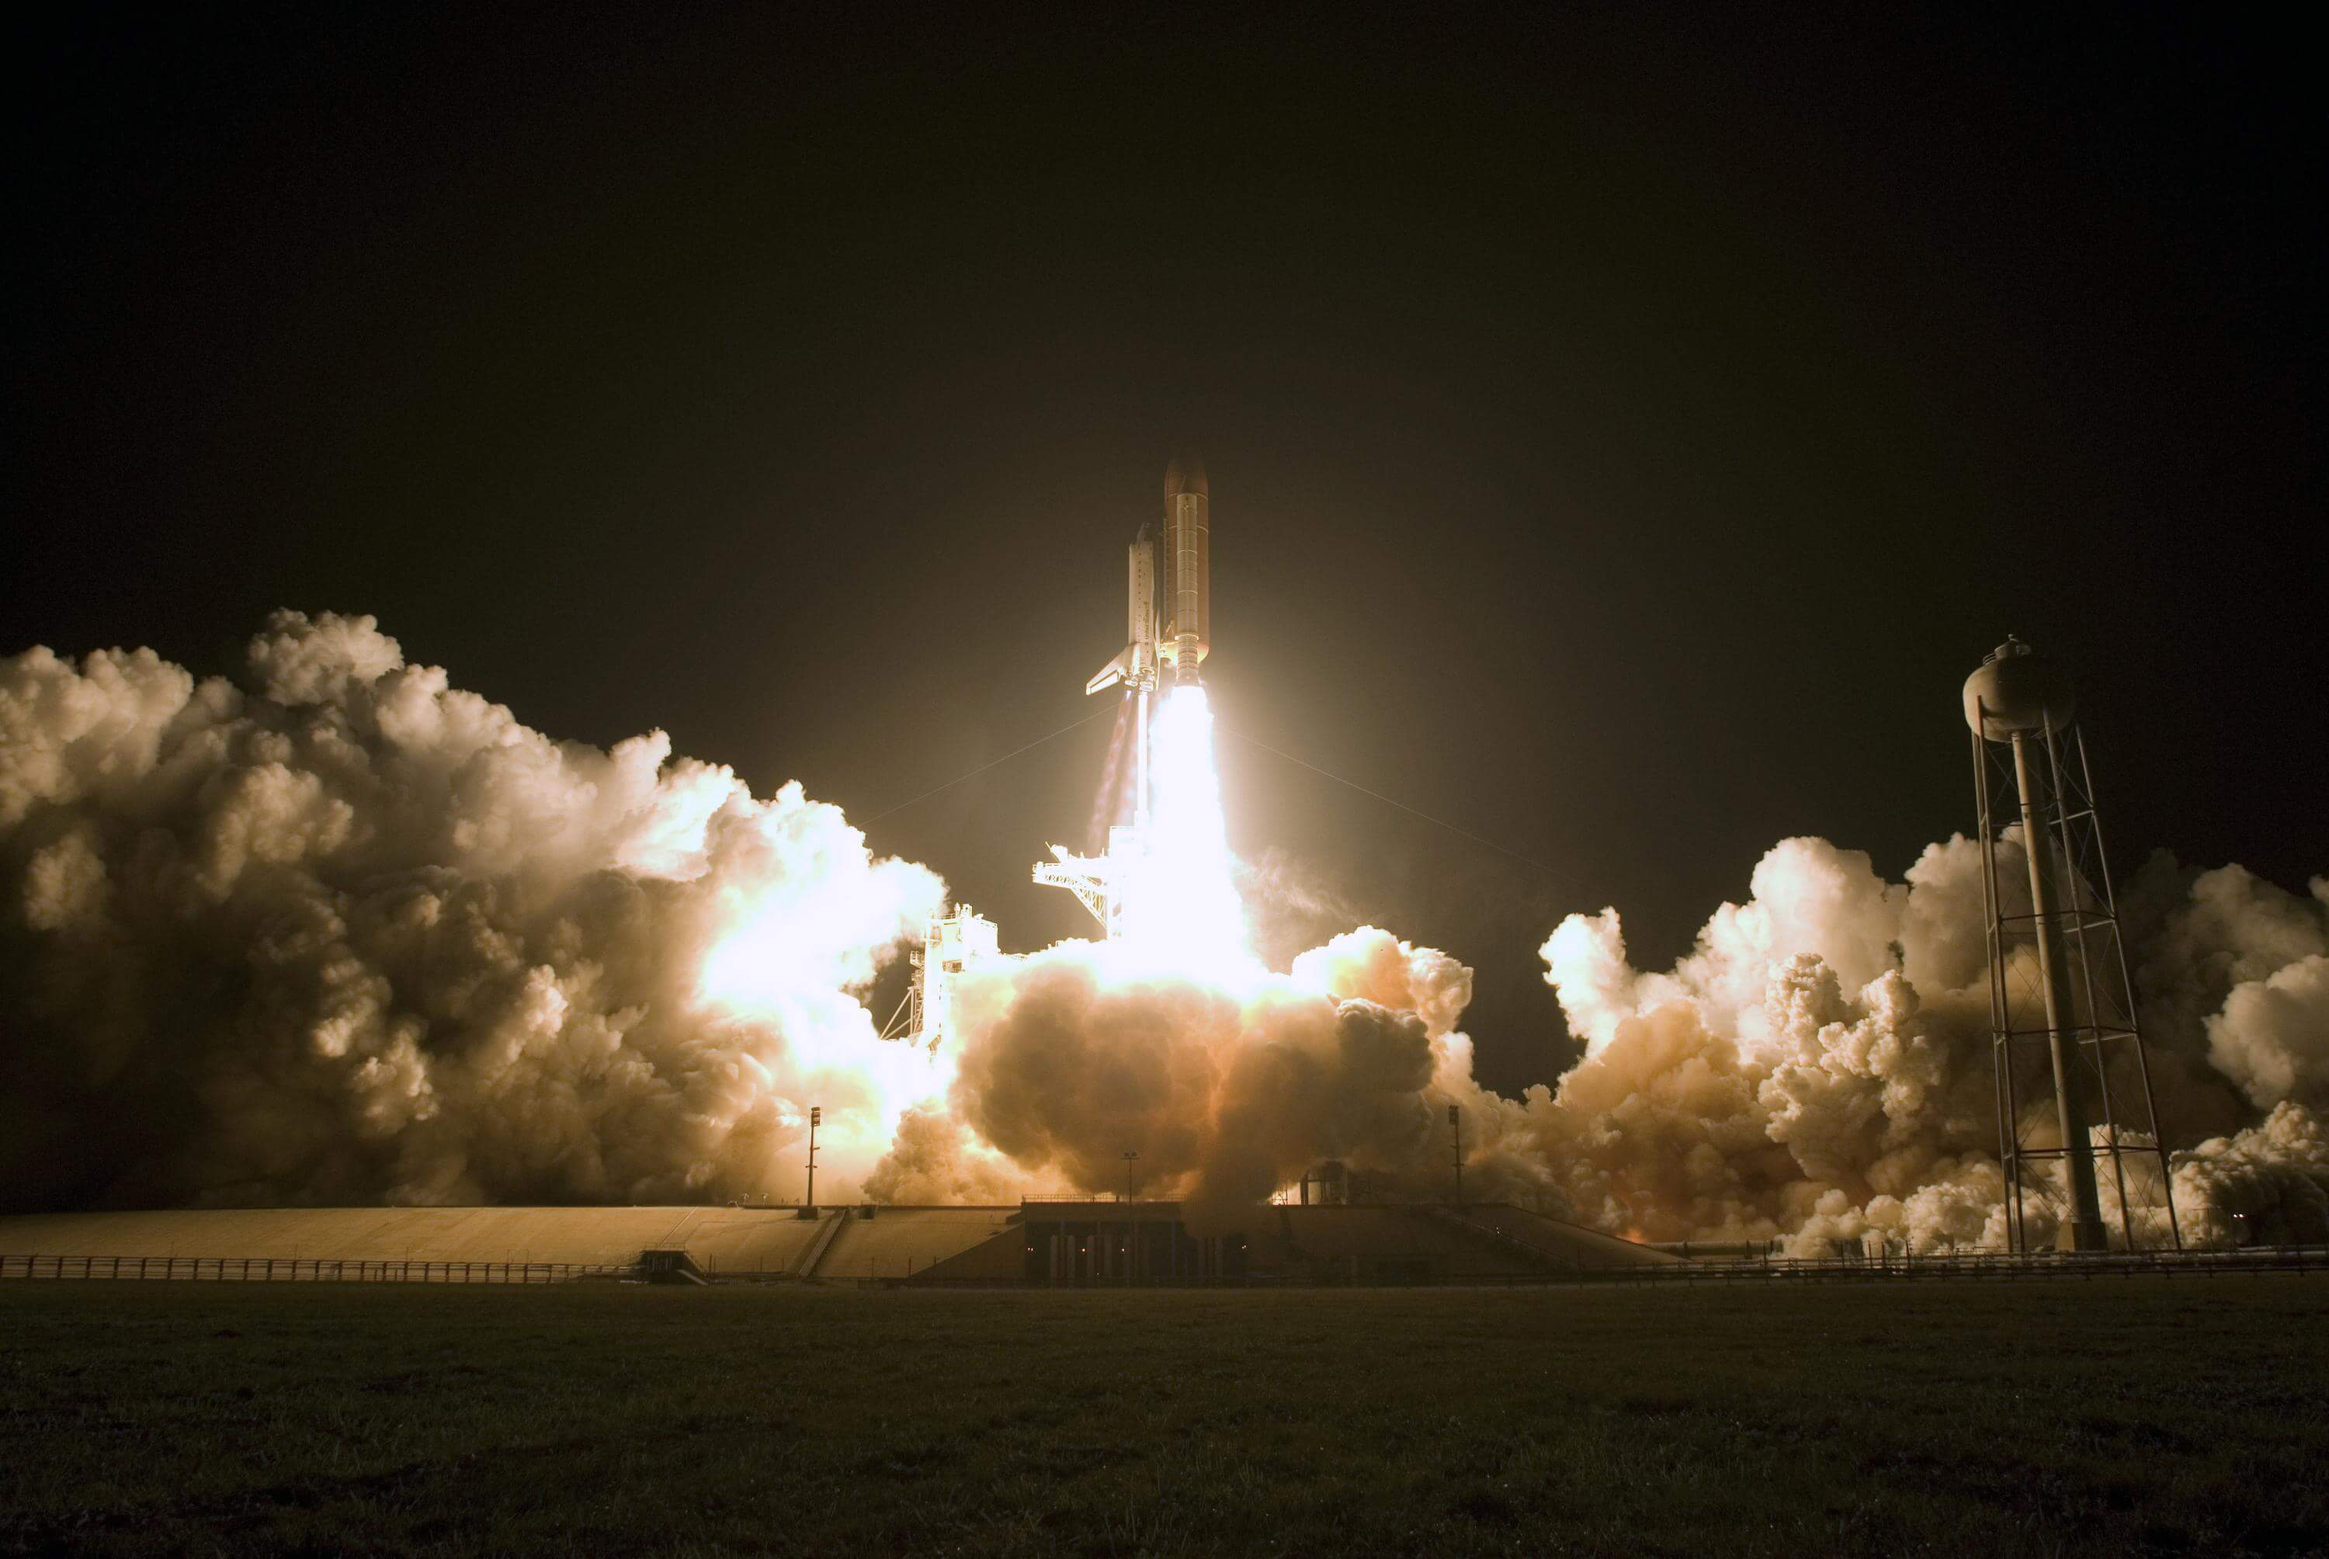
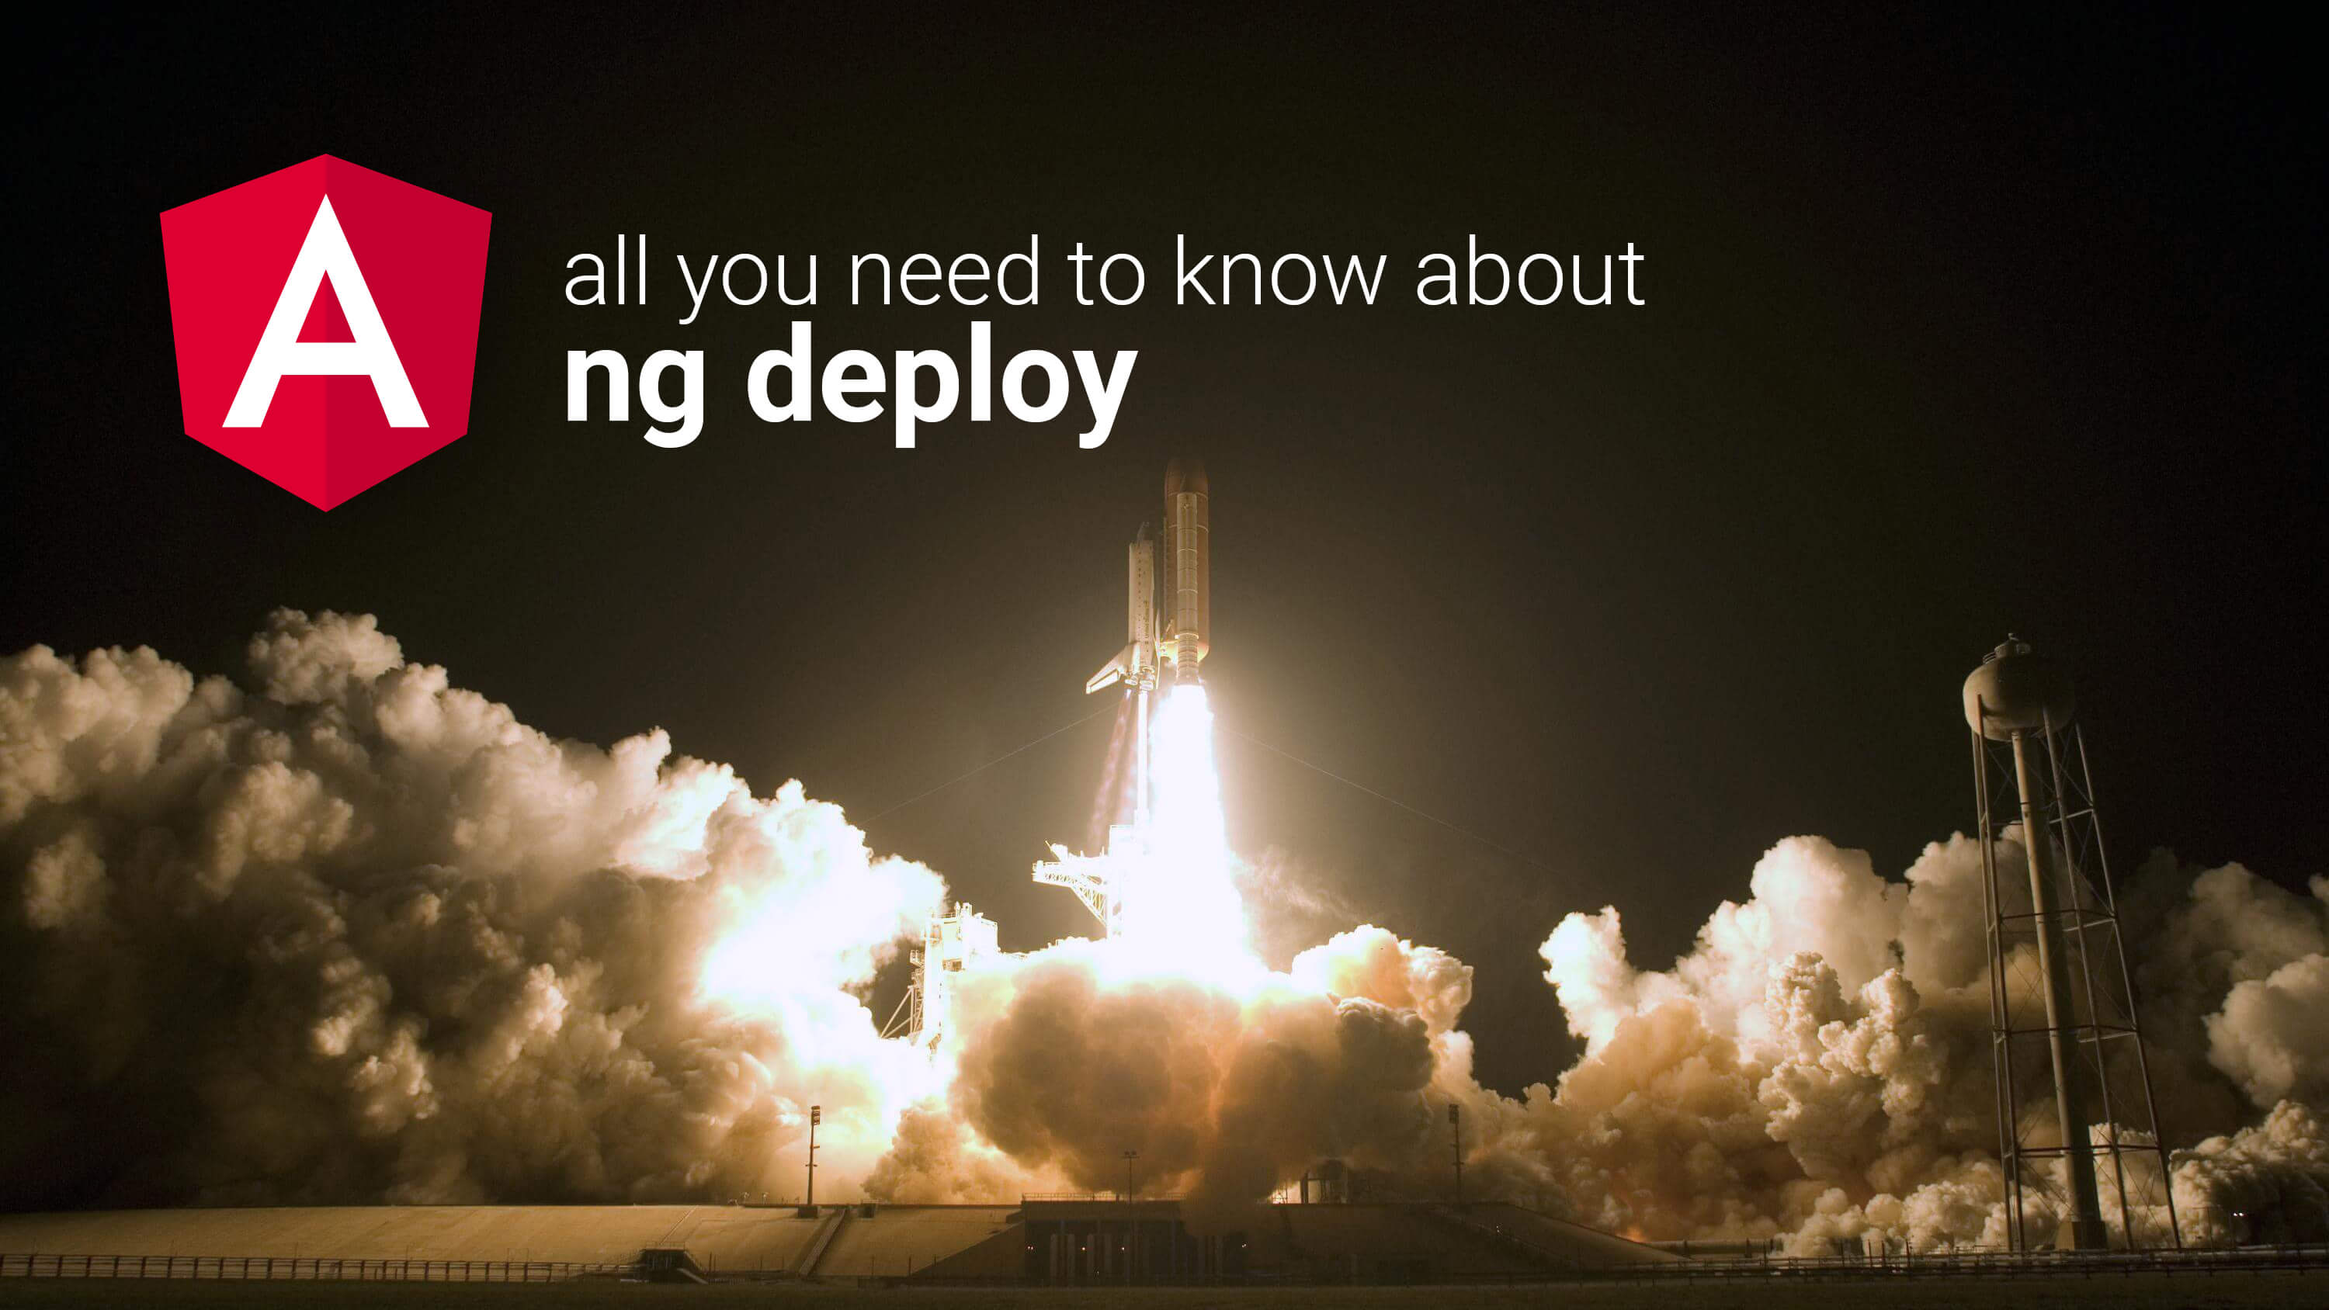
ng deploy: space shuttle with text + TOC

diff --git a/blog/2019-08-ng-deploy/README.md b/blog/2019-08-ng-deploy/README.md
@@ -18,12 +18,16 @@ hidden: true
 
 <hr>
 
+Table of contents:
+
 - [Introduction](/blog/2019-08-ng-deploy#introduction)
 - [Background](/blog/2019-08-ng-deploy#background)
 - [Command Line Call](/blog/2019-08-ng-deploy#command-line-call)
 - [Existing providers](/blog/2019-08-ng-deploy#existing-providers)
-- [Caveats](/blog/2019-08-ng-deploy#caveats)
+- [Deploy to multiple targets](/blog/2019-08-ng-deploy#deploy-to-multiple-targets)
+- [How to make your own deployment builder](/blog/2019-08-ng-deploy#how-to-make-your-own-deployment-builder)
 - [Summary](/blog/2019-08-ng-deploy#summary)
+
 
 
 ## Introduction
